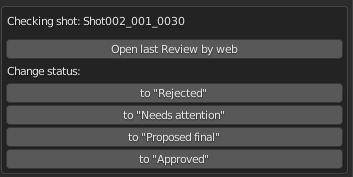
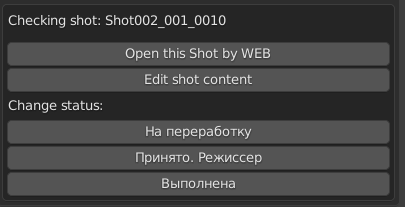
animatic tools - edit shot content

diff --git a/docs/source/manual/work_panel/animatic_tools.rst b/docs/source/manual/work_panel/animatic_tools.rst
@@ -212,10 +212,18 @@ Checking shot:
 
 .. _animatic_tools_open_last_review_by_web:
 
-Open last Review by web
+Open this Shot by WEB
 ~~~~~~~~~~~~~~~~~~~~~~~
 
-:guilabel:`Open last Review by web` - Открывает обзор последней версии ревью выделенного шота в вёб браузере.
+:guilabel:`Open this Shot by WEB` - Открывает обзор выделенного шота в вёб браузере.
+
+
+.. _animatic_tools_edit_shot_content:
+
+Edit shot content
+~~~~~~~~~~~~~~~~~~~~~~~
+
+:guilabel:`Edit shot content` - Запускает панель редактирования контента активного шота.
 
 
 .. _animatic_tools_change_status:
